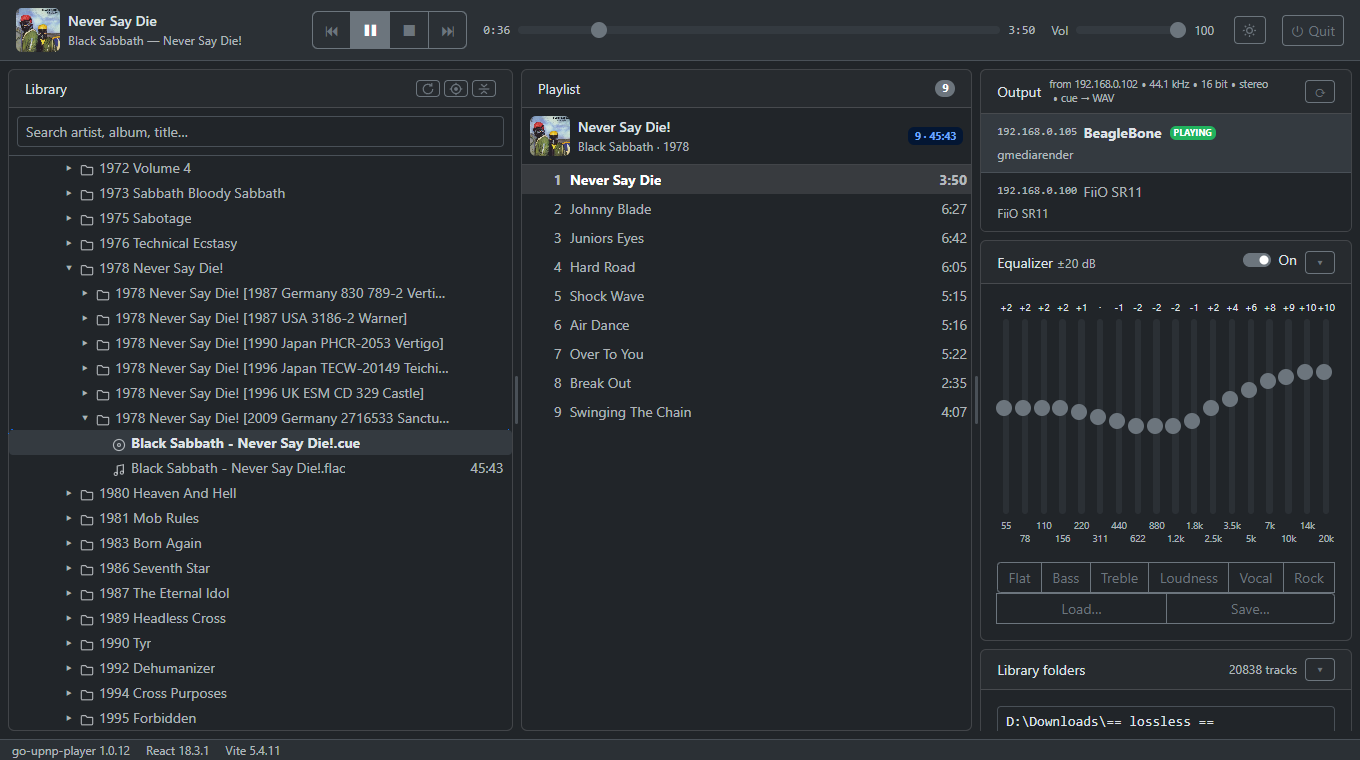
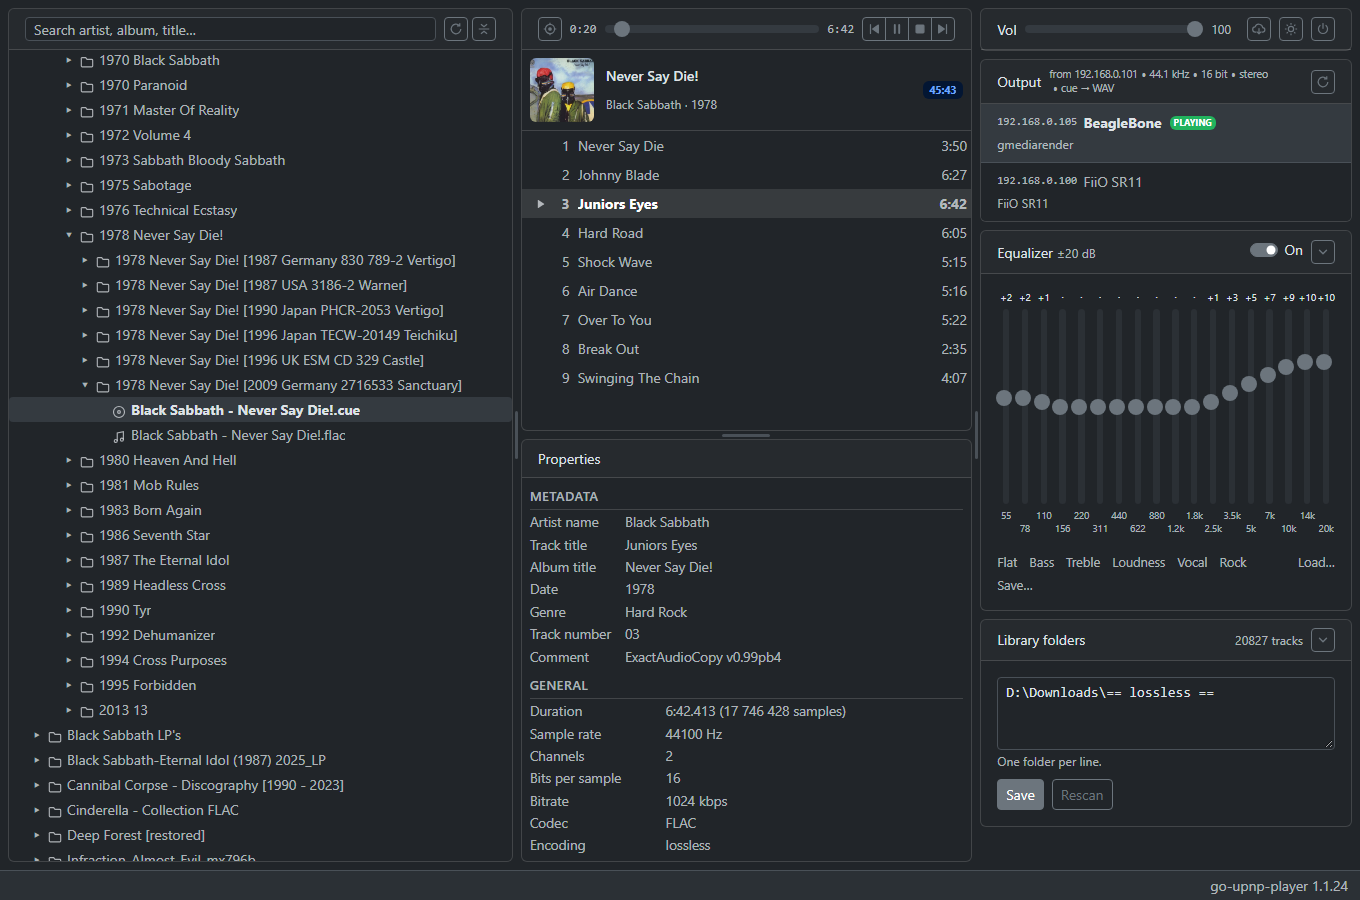
README: go-upnp-player as it is now, and the player's own screenshot

diff --git a/README.md b/README.md
@@ -77,12 +77,15 @@ playback restarted, not just applied.
 [![go-upnp-player playing to Valera](img/go-upnp-player.png)](https://github.com/panedrone/go-upnp-player)
 
 [go-upnp-player](https://github.com/panedrone/go-upnp-player) is a UPnP control point and media
-server in one Windows exe, with its UI in the browser (a phone on the same Wi-Fi works as a remote).
-There is nothing to configure, neither here nor on the PC: it finds Valera on the network, reads what
-the board accepts and plays to it. FLAC files go as they are; CUE images are cut into tracks on the PC
-and sent as WAV at their own rate and bit depth. The quirks of this board's gmrender are the player's
-problem, not yours: it restarts the pipeline the way foobar2000 does, waits a few seconds while the
-amplifier is still on another input, and a track moved to another device goes on from the same second.
+server in one program. On Windows it installs with a window of its own (or a native Qt window); on
+Linux it is one `go install`; and the page works from any browser, a phone on the same Wi-Fi as a
+remote. There is nothing to configure, neither here nor on the PC: it finds Valera on the network,
+reads what the board accepts and plays to it. FLAC files and CUE images are decoded on the PC and
+sent as WAV with the original samples, at their own rate and bit depth; an album goes as one
+gapless stream. The quirks of this board's gmrender are the player's problem, not yours: every step
+is sent only once the board reports the previous one done, Stop is a real Stop, a start is retried
+for a few seconds while the amplifier is still on another input, and a track moved to another device
+goes on from the same second.
 
 The two rules above still hold: its volume slider drives the same RenderingControl volume, so keep it
 at 100, and keep its equalizer off for a bit-perfect stream.
